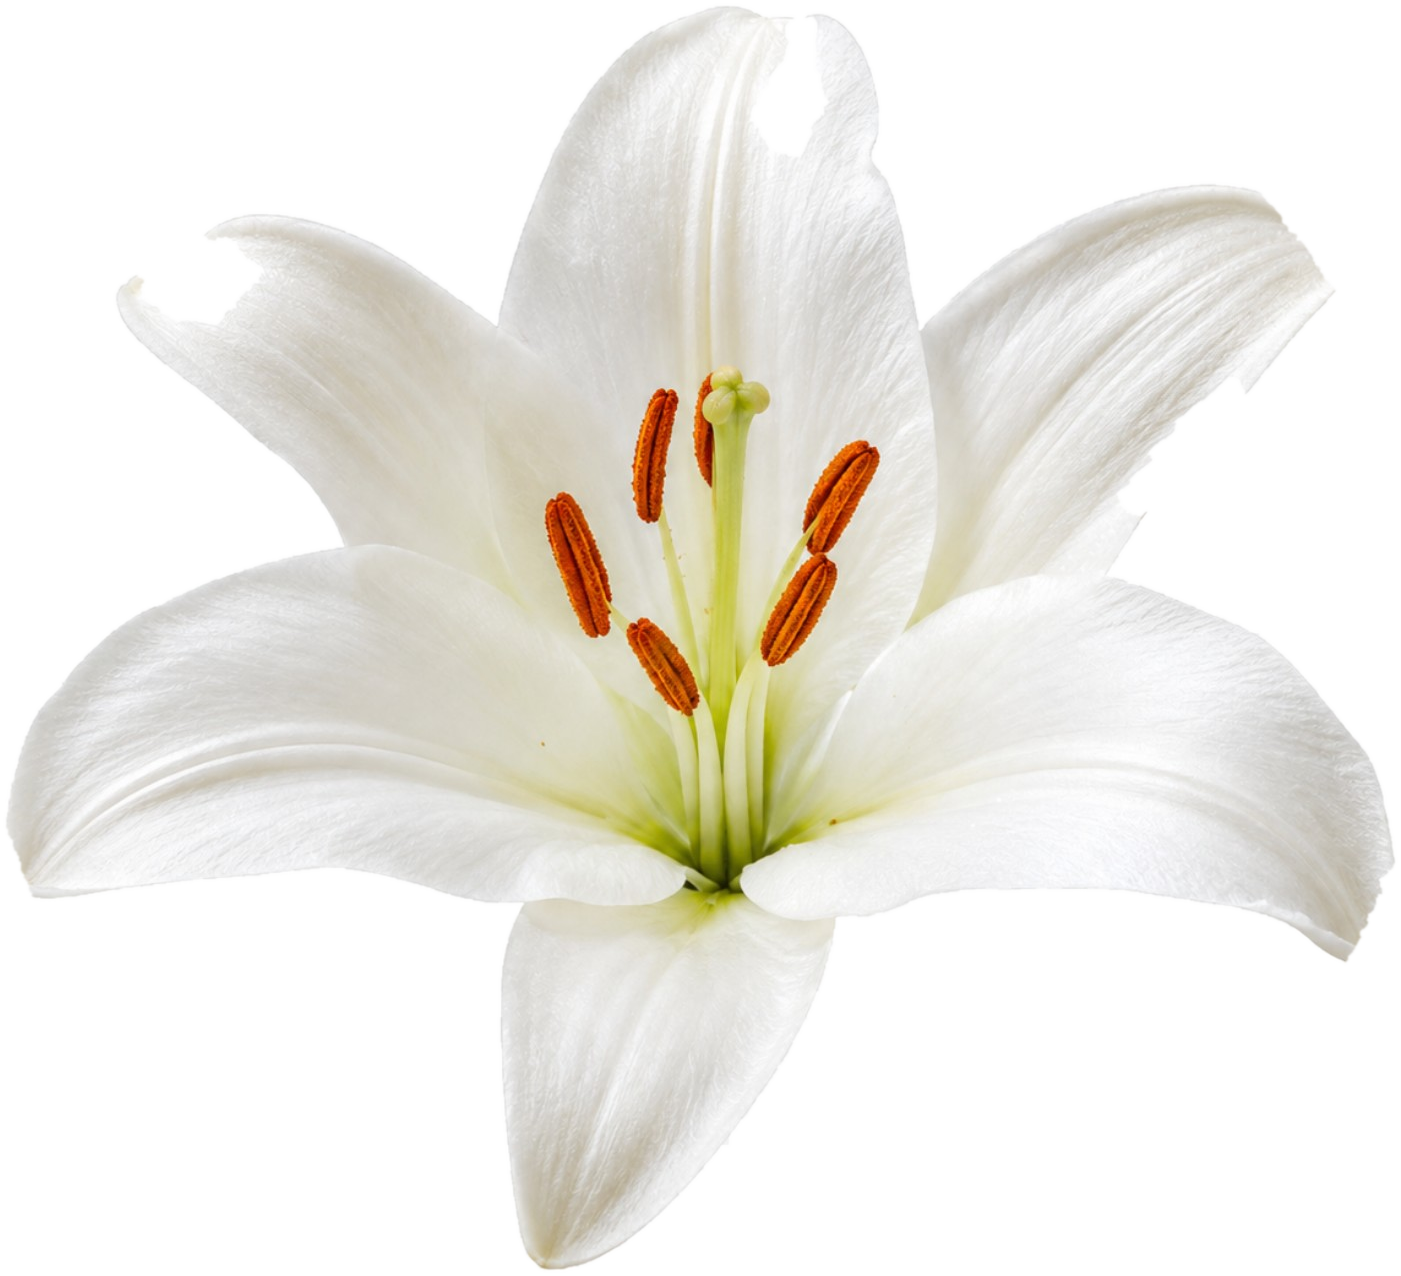
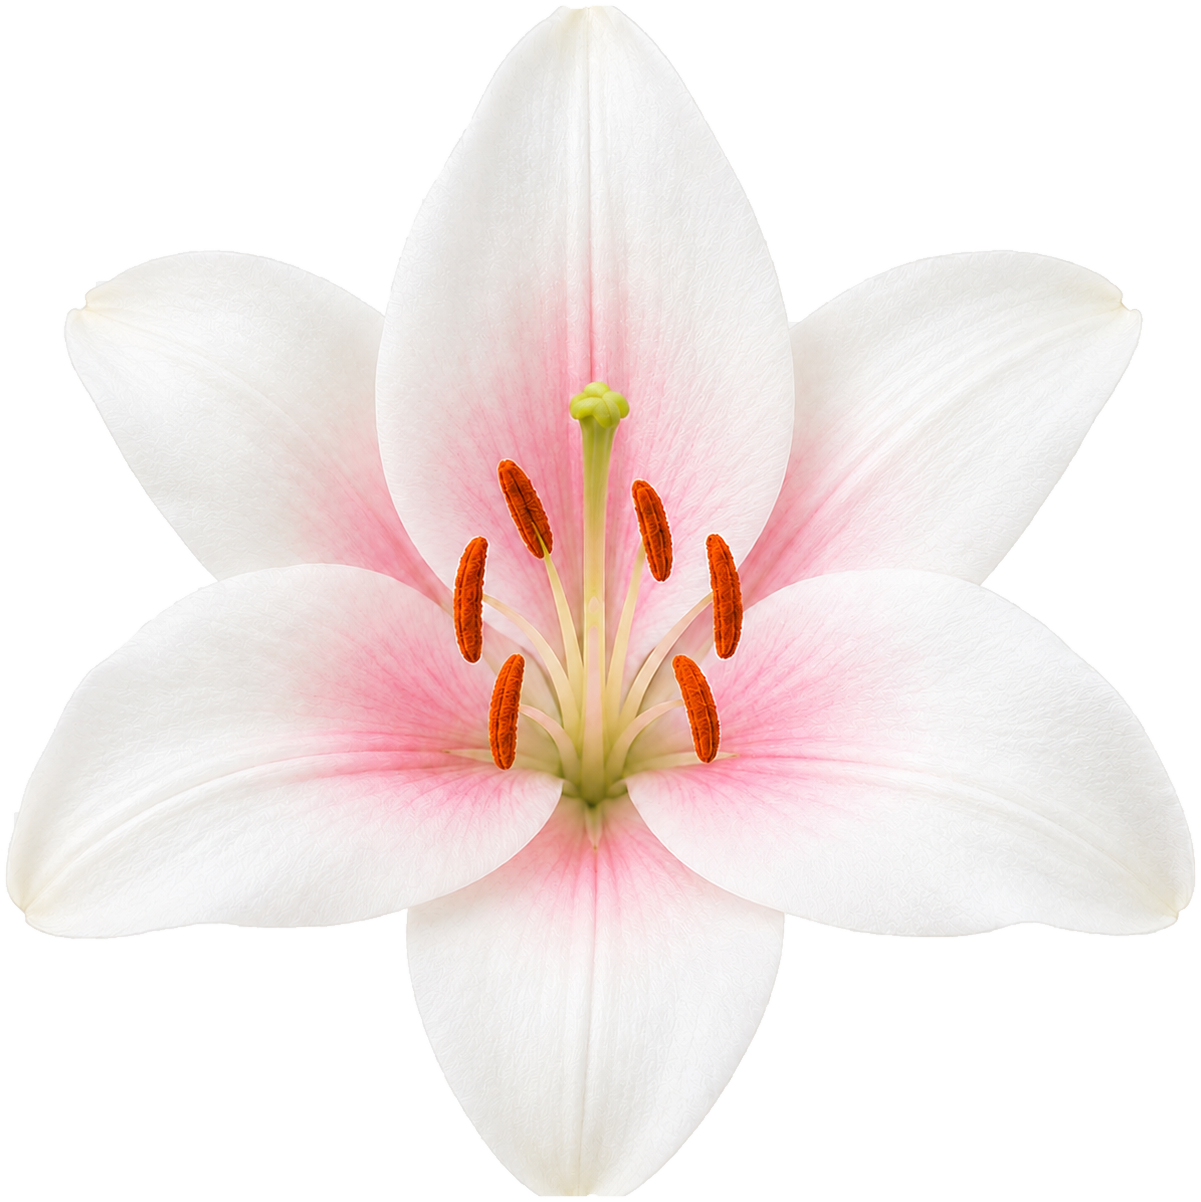
V69

diff --git a/g-lab-gem-game-github-pages/service-worker.js b/g-lab-gem-game-github-pages/service-worker.js
@@ -1,5 +1,5 @@
-// g-Lab Gem Game v68 — updated flower sizes for hard mode obstacles
-const CACHE_NAME = 'g-lab-gem-game-v68-flower-size-plus20';
+// g-Lab Gem Game v70 — replaced lily flower image
+const CACHE_NAME = 'g-lab-gem-game-v70-new-lily-image';
 const ASSETS = ['./', './index.html', './style.css',
   './assets/outer-bg-art-nouveau.png',
   './assets/g-lab-logo.jpg',